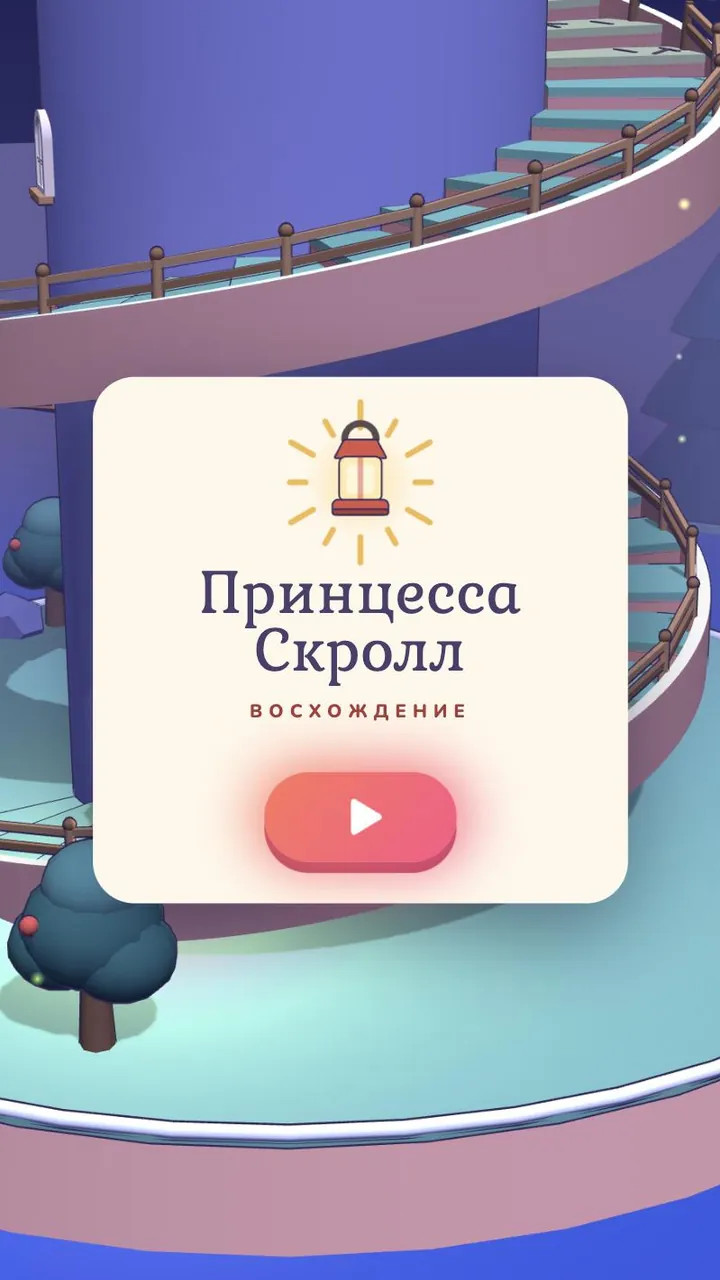
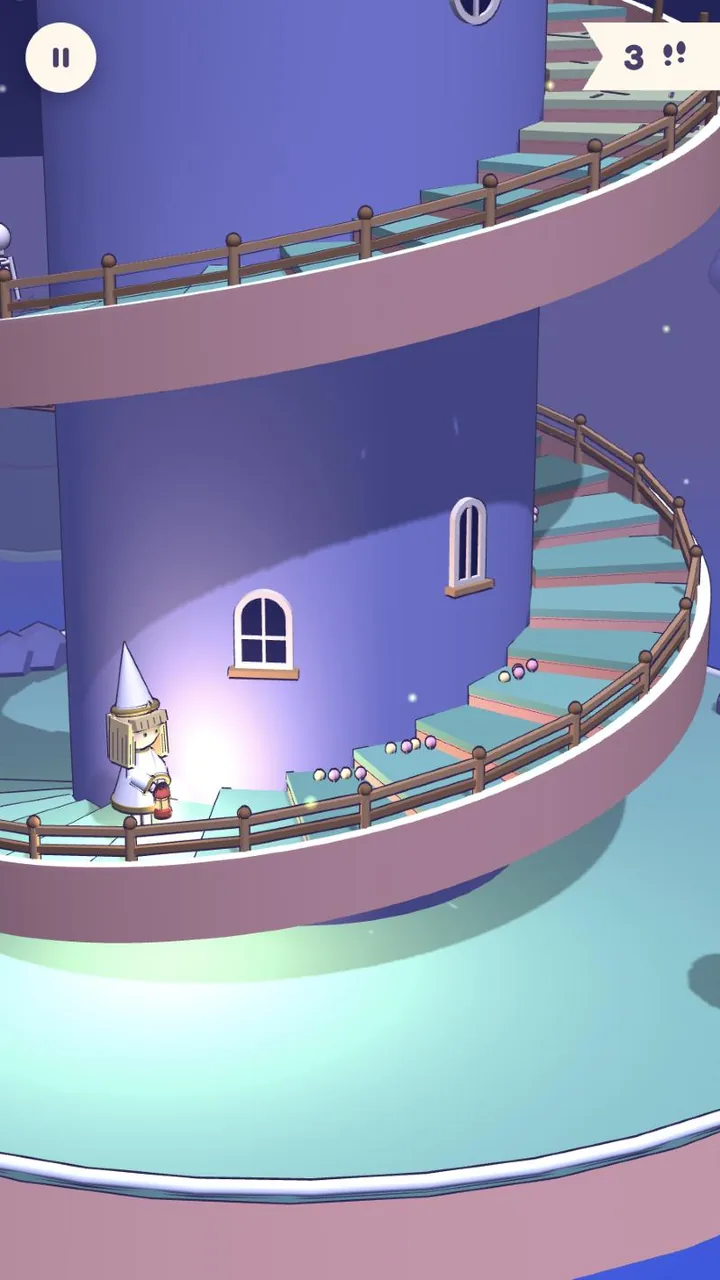
Снять обложки изнутри игр, а не со стартового экрана
На обложках были титульные экраны с собственными кнопками «играть», и
наша зелёная Play ложилась прямо на чужую — интерфейс на интерфейсе.
Теперь на каждой обложке сама игра: выпавшая карта в «Арканах», поле
боя в «Сдвиге», офис с персонажем, рабочий забег ровера, башня
принцессы, дрон в пещере.

Claude-Session: https://claude.ai/code/session_01PBNQ389jVRcufVKroMxzC6

diff --git a/games/index.html b/games/index.html
@@ -10,7 +10,7 @@
 <link rel="preconnect" href="https://fonts.googleapis.com"><link rel="preconnect" href="https://fonts.gstatic.com" crossorigin>
 <link rel="stylesheet" href="https://fonts.googleapis.com/css2?family=Unbounded:wght@300;400;600;800&display=swap">
 <link rel="stylesheet" href="/styles.css?v=39">
-<link rel="stylesheet" href="/games/games.css?v=7">
+<link rel="stylesheet" href="/games/games.css?v=8">
 </head>
 <body>
 <a class="skip-link" href="#feed">Skip to the games</a>
@@ -35,5 +35,5 @@
   <p class="g-hint" style="margin:40vh auto;text-align:center">Loading the catalogue&hellip;</p>
 </main>
 
-<script src="/games/games.js?v=7" defer></script>
+<script src="/games/games.js?v=8" defer></script>
 </body></html>
